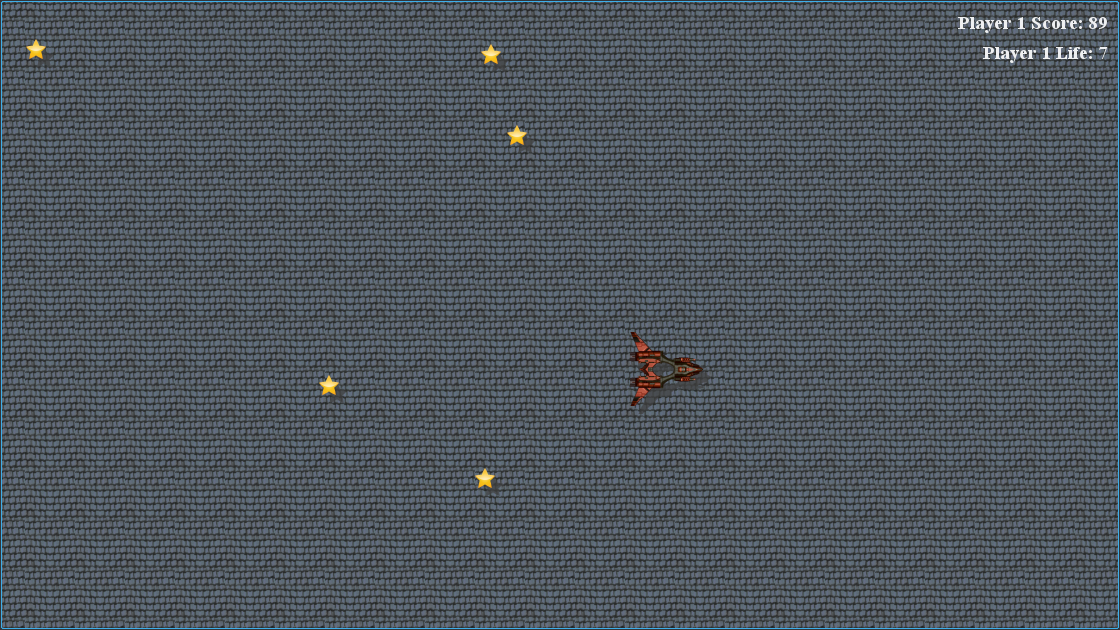
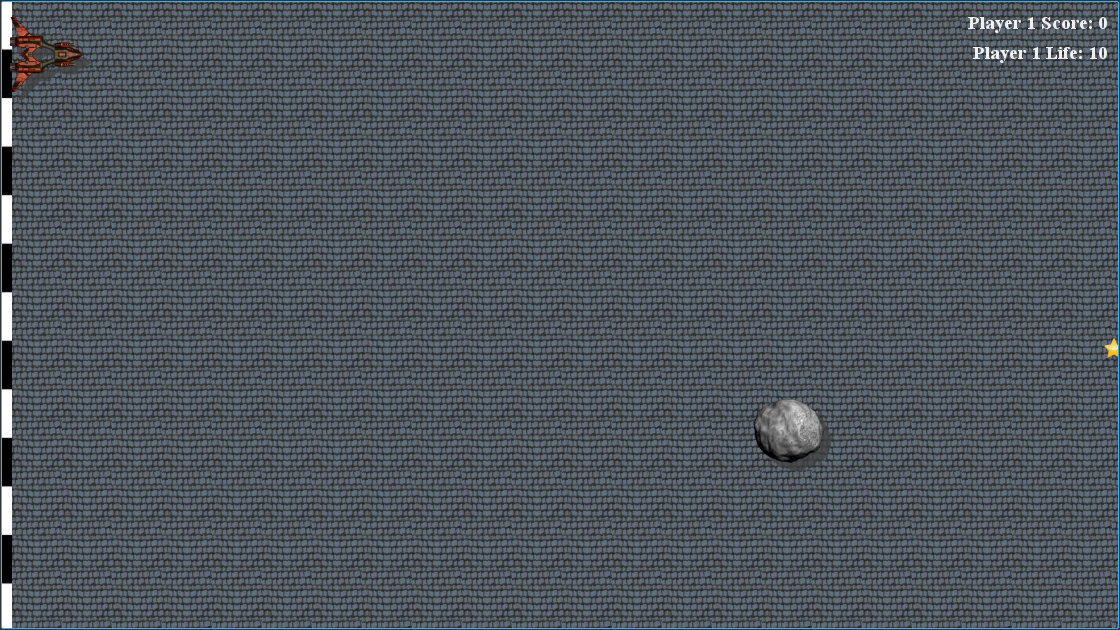
Project Update

diff --git a/Sources/Source Files/Widgets/MyGame.cpp b/Sources/Source Files/Widgets/MyGame.cpp
@@ -16,11 +16,11 @@ MyGame::MyGame(QWidget *parent) :
 	gscn->setBackgroundBrush(
 			QBrush(QImage(MyRes::env_adds[SettingData::env]).scaled(MyRes::tl_size, Qt::KeepAspectRatio,
 			                                                        Qt::SmoothTransformation)));
-	gscn_s = new QGraphicsScene();
-	gscn_s->setSceneRect(MyRes::scn_rct);
-	gscn_s->setBackgroundBrush(
-			QBrush(QImage(MyRes::env_adds[SettingData::env]).scaled(MyRes::tl_size, Qt::KeepAspectRatio,
-			                                                        Qt::SmoothTransformation)));
+//	gscn_s = new QGraphicsScene();
+//	gscn_s->setSceneRect(MyRes::scn_rct);
+//	gscn_s->setBackgroundBrush(
+//			QBrush(QImage(MyRes::env_adds[SettingData::env]).scaled(MyRes::tl_size, Qt::KeepAspectRatio,
+//			                                                        Qt::SmoothTransformation)));
 
 	for (int i = 0; i < MyRes::stg_cnt; i++) {
 		QGraphicsPixmapItem *stg = new QGraphicsPixmapItem(
@@ -133,7 +133,7 @@ void MyGame::restart() {
 		bld_stg1();
 		bld_stg2();
 		bld_stg3();
-//		bld_bss();
+		bld_bss();
 	}
 //	else if(tmp == "1") {
 //
@@ -376,22 +376,23 @@ void MyGame::bld_stg3() {
 }
 
 void MyGame::bld_bss() {
-	setScene(gscn_s);
-	setSceneRect(viewport()->frameGeometry());
-	QTextStream X(stderr);
-	X << 1 << endl;
-	scene()->addItem(shp1);
-	scene()->addItem(shp1->shpshld);
-	shp1->scr_txt->setPos(size().width() - shp1->scr_txt->boundingRect().width() - MyRes::txtitem_x_crrctn,
-	                      MyRes::txtitem_y_crrctn);
-	shp1->lf_txt->setPos(size().width() - shp1->lf_txt->boundingRect().width() - MyRes::txtitem_x_crrctn,
-	                     MyRes::txtitem_y_crrctn + shp1->scr_txt->boundingRect().height());
-	scene()->addItem(shp1->scr_txt);
-	scene()->addItem(shp1->lf_txt);
-
-	MyAlienBoss *tmp = new MyAlienBoss(4, -1, -1);
-	tmp->setPos(1300, 300);
-	scene()->addItem(tmp);
+//	setScene(gscn_s);
+//	setSceneRect(viewport()->frameGeometry());
+//	scene()->addItem(shp1);
+//	shp1->setPos(mapFromScene(shp1->pos()));
+//	scene()->addItem(shp1->shpshld);
+//	shp1->scr_txt->setPos(size().width() - shp1->scr_txt->boundingRect().width() - MyRes::txtitem_x_crrctn,
+//	                      MyRes::txtitem_y_crrctn);
+//	shp1->lf_txt->setPos(size().width() - shp1->lf_txt->boundingRect().width() - MyRes::txtitem_x_crrctn,
+//	                     MyRes::txtitem_y_crrctn + shp1->scr_txt->boundingRect().height());
+//	scene()->addItem(shp1->scr_txt);
+//	scene()->addItem(shp1->lf_txt);
+//
+	MyAlienBoss *bss = new MyAlienBoss(4, -1, -1);
+	bss->setPos(
+			MyRes::stg_cnt * (MyRes::app_size.width() + (MyRes::gm_drtn / MyRes::frm_dly) + MyRes::app_size.width()) +
+			100, rand() % (viewport()->height() - bss->pixmap().height()));
+	scene()->addItem(bss);
 }
 
 void MyGame::keyPressEvent(QKeyEvent *event) {
@@ -411,13 +412,14 @@ void MyGame::keyReleaseEvent(QKeyEvent *event) {
 void MyGame::timerEvent(QTimerEvent *event) {
 	if (sceneRect().x() >
 	    MyRes::stg_cnt * (MyRes::app_size.width() + (MyRes::gm_drtn / MyRes::frm_dly) + MyRes::app_size.width()) -
-			    MyRes::app_size.width() && scene() == gscn) {
-		if (SettingData::gMode == 1) {
+			    MyRes::app_size.width() /*&& scene() == gscn*/) {
+//		if (SettingData::gMode == 1) {
 //			clean();
-			bld_bss();
-			return;
-		}
-		else {
+//			bld_bss();
+//			return;
+//		}
+//		else {
+		if (SettingData::gMode != 1) {
 			if (shp1->scr > shp2->scr) {
 				emit gameEnded(1);
 			}
@@ -440,7 +442,9 @@ void MyGame::timerEvent(QTimerEvent *event) {
 	setSceneRect(sceneRect().x() + MyRes::vw_mvmnt, 0, viewport()->frameGeometry().width(),
 	             viewport()->frameGeometry().height());
 	QList<QGraphicsItem *> itms = scene()->items();
-	if (scene() == gscn_s) {
+	if (sceneRect().x() >
+	    MyRes::stg_cnt * (MyRes::app_size.width() + (MyRes::gm_drtn / MyRes::frm_dly) + MyRes::app_size.width()) -
+	    MyRes::app_size.width()) {
 		bool f = false;
 				foreach(QGraphicsItem *i, itms) {
 				if (dynamic_cast<MyAlienBoss *>(i)) {

diff --git a/Sources/Headers/Widgets/MyGame.h b/Sources/Headers/Widgets/MyGame.h
@@ -48,7 +48,7 @@ private:
 	QSet<int> *prsd_kys;
 
 	QGraphicsScene *gscn;
-	QGraphicsScene *gscn_s;
+//	QGraphicsScene *gscn_s;
 
 	MyShip *shp1;
 	MyShip *shp2;
